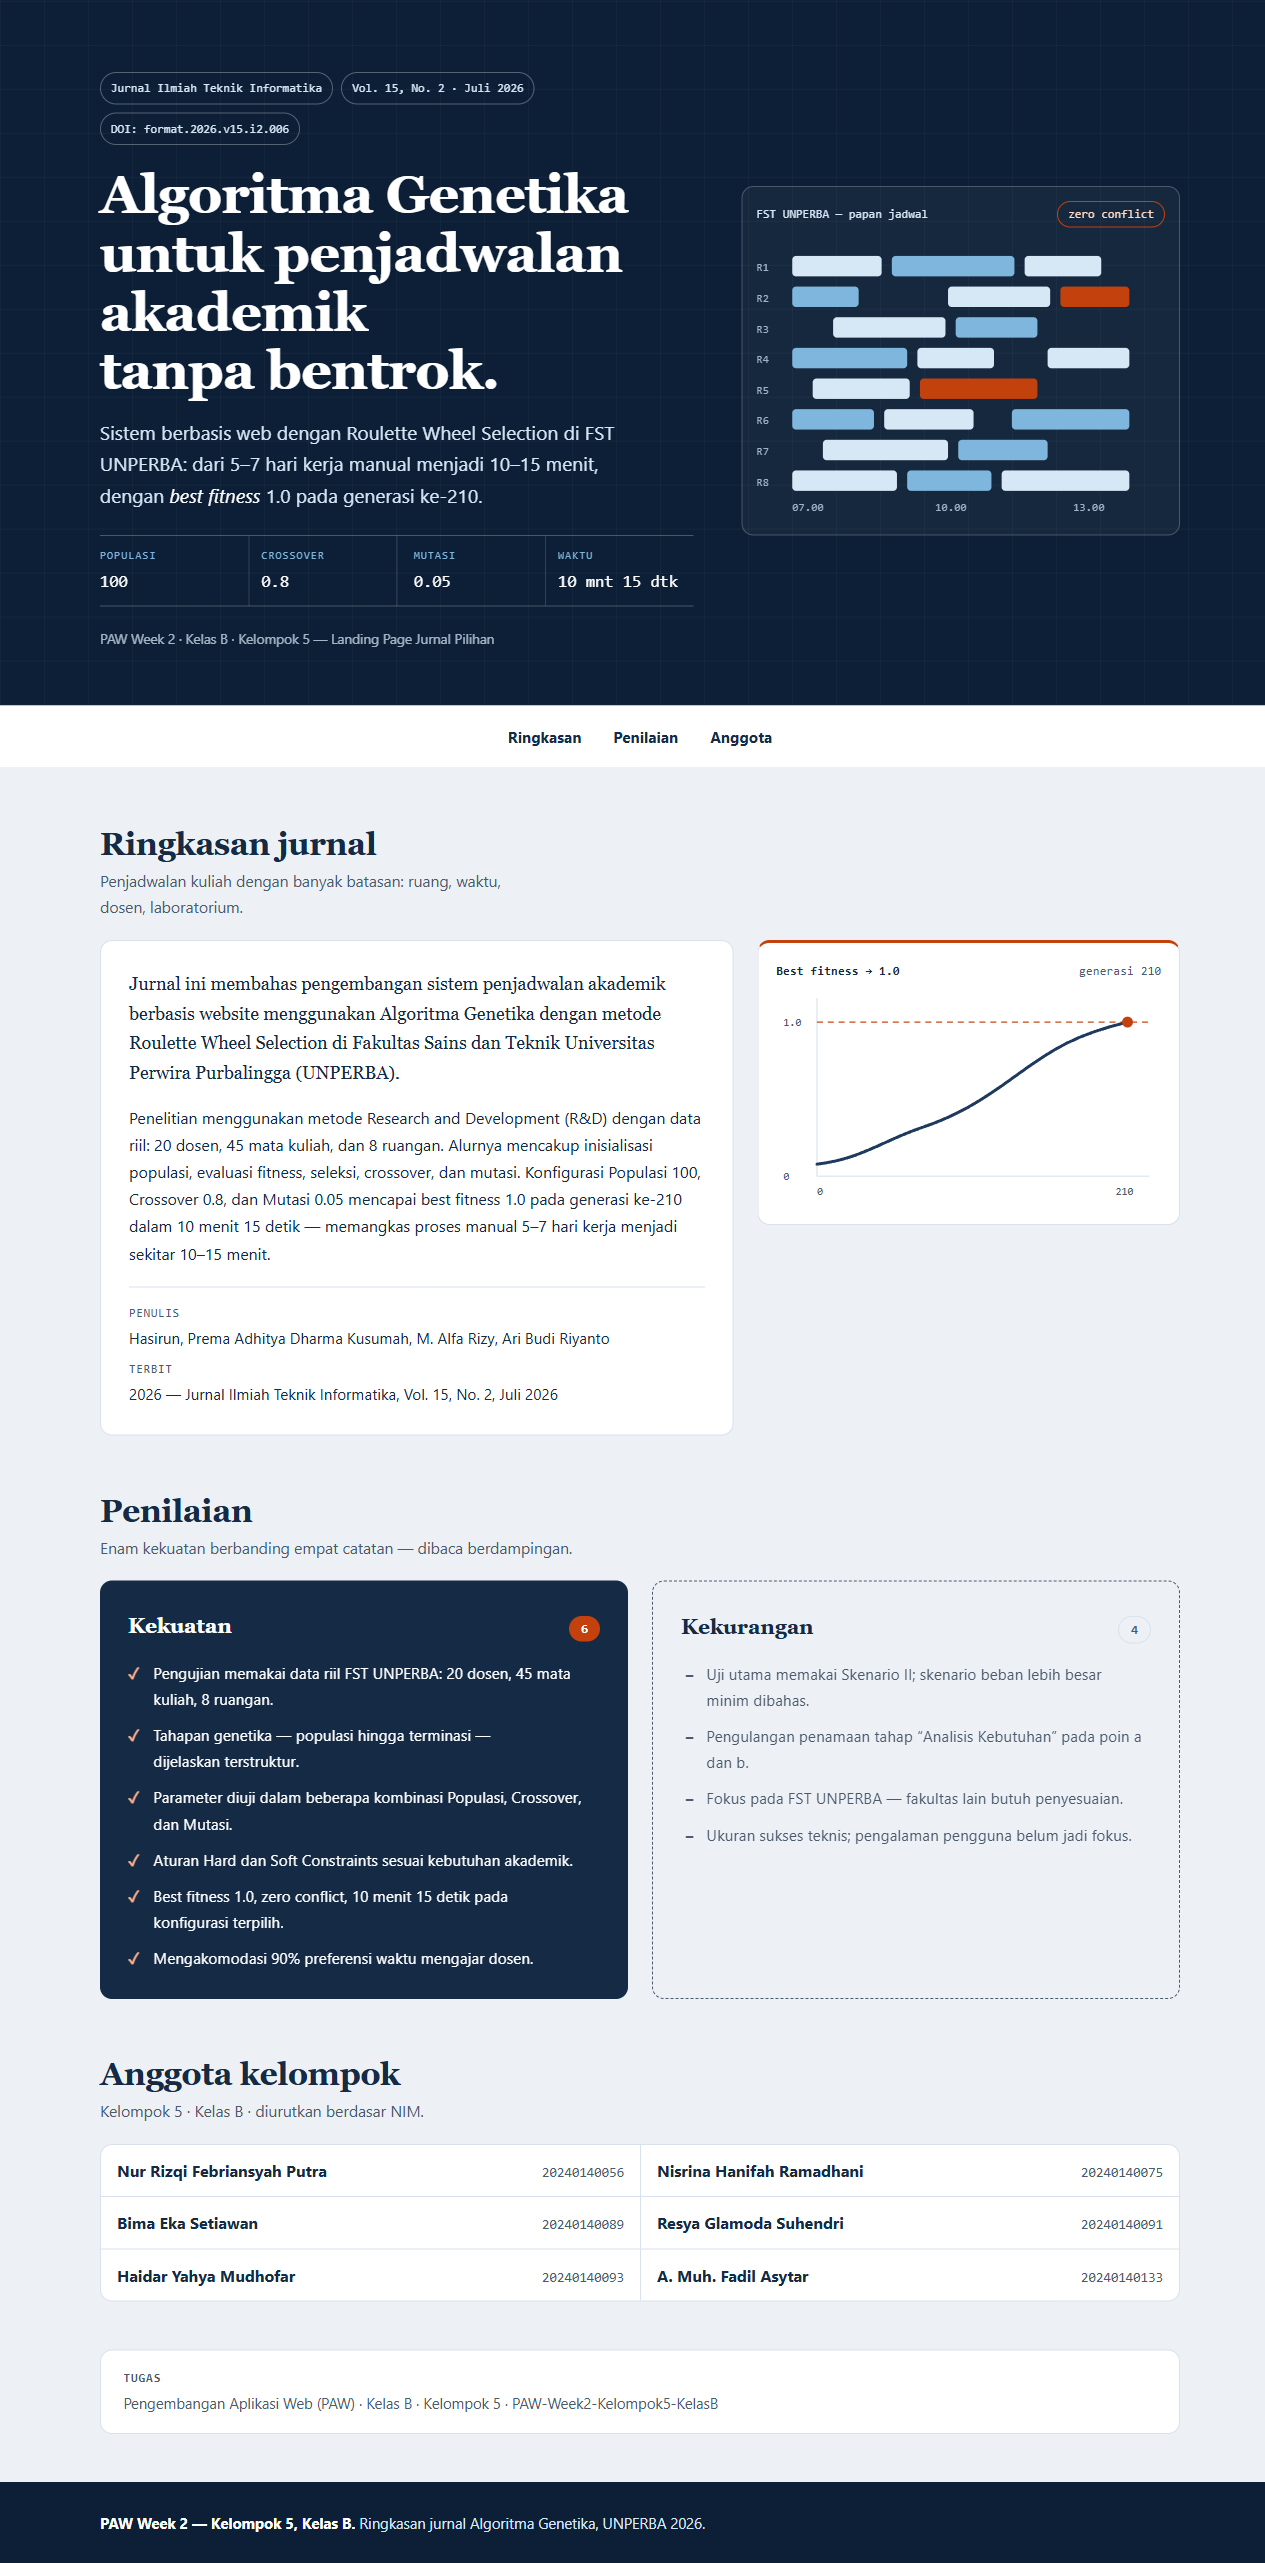
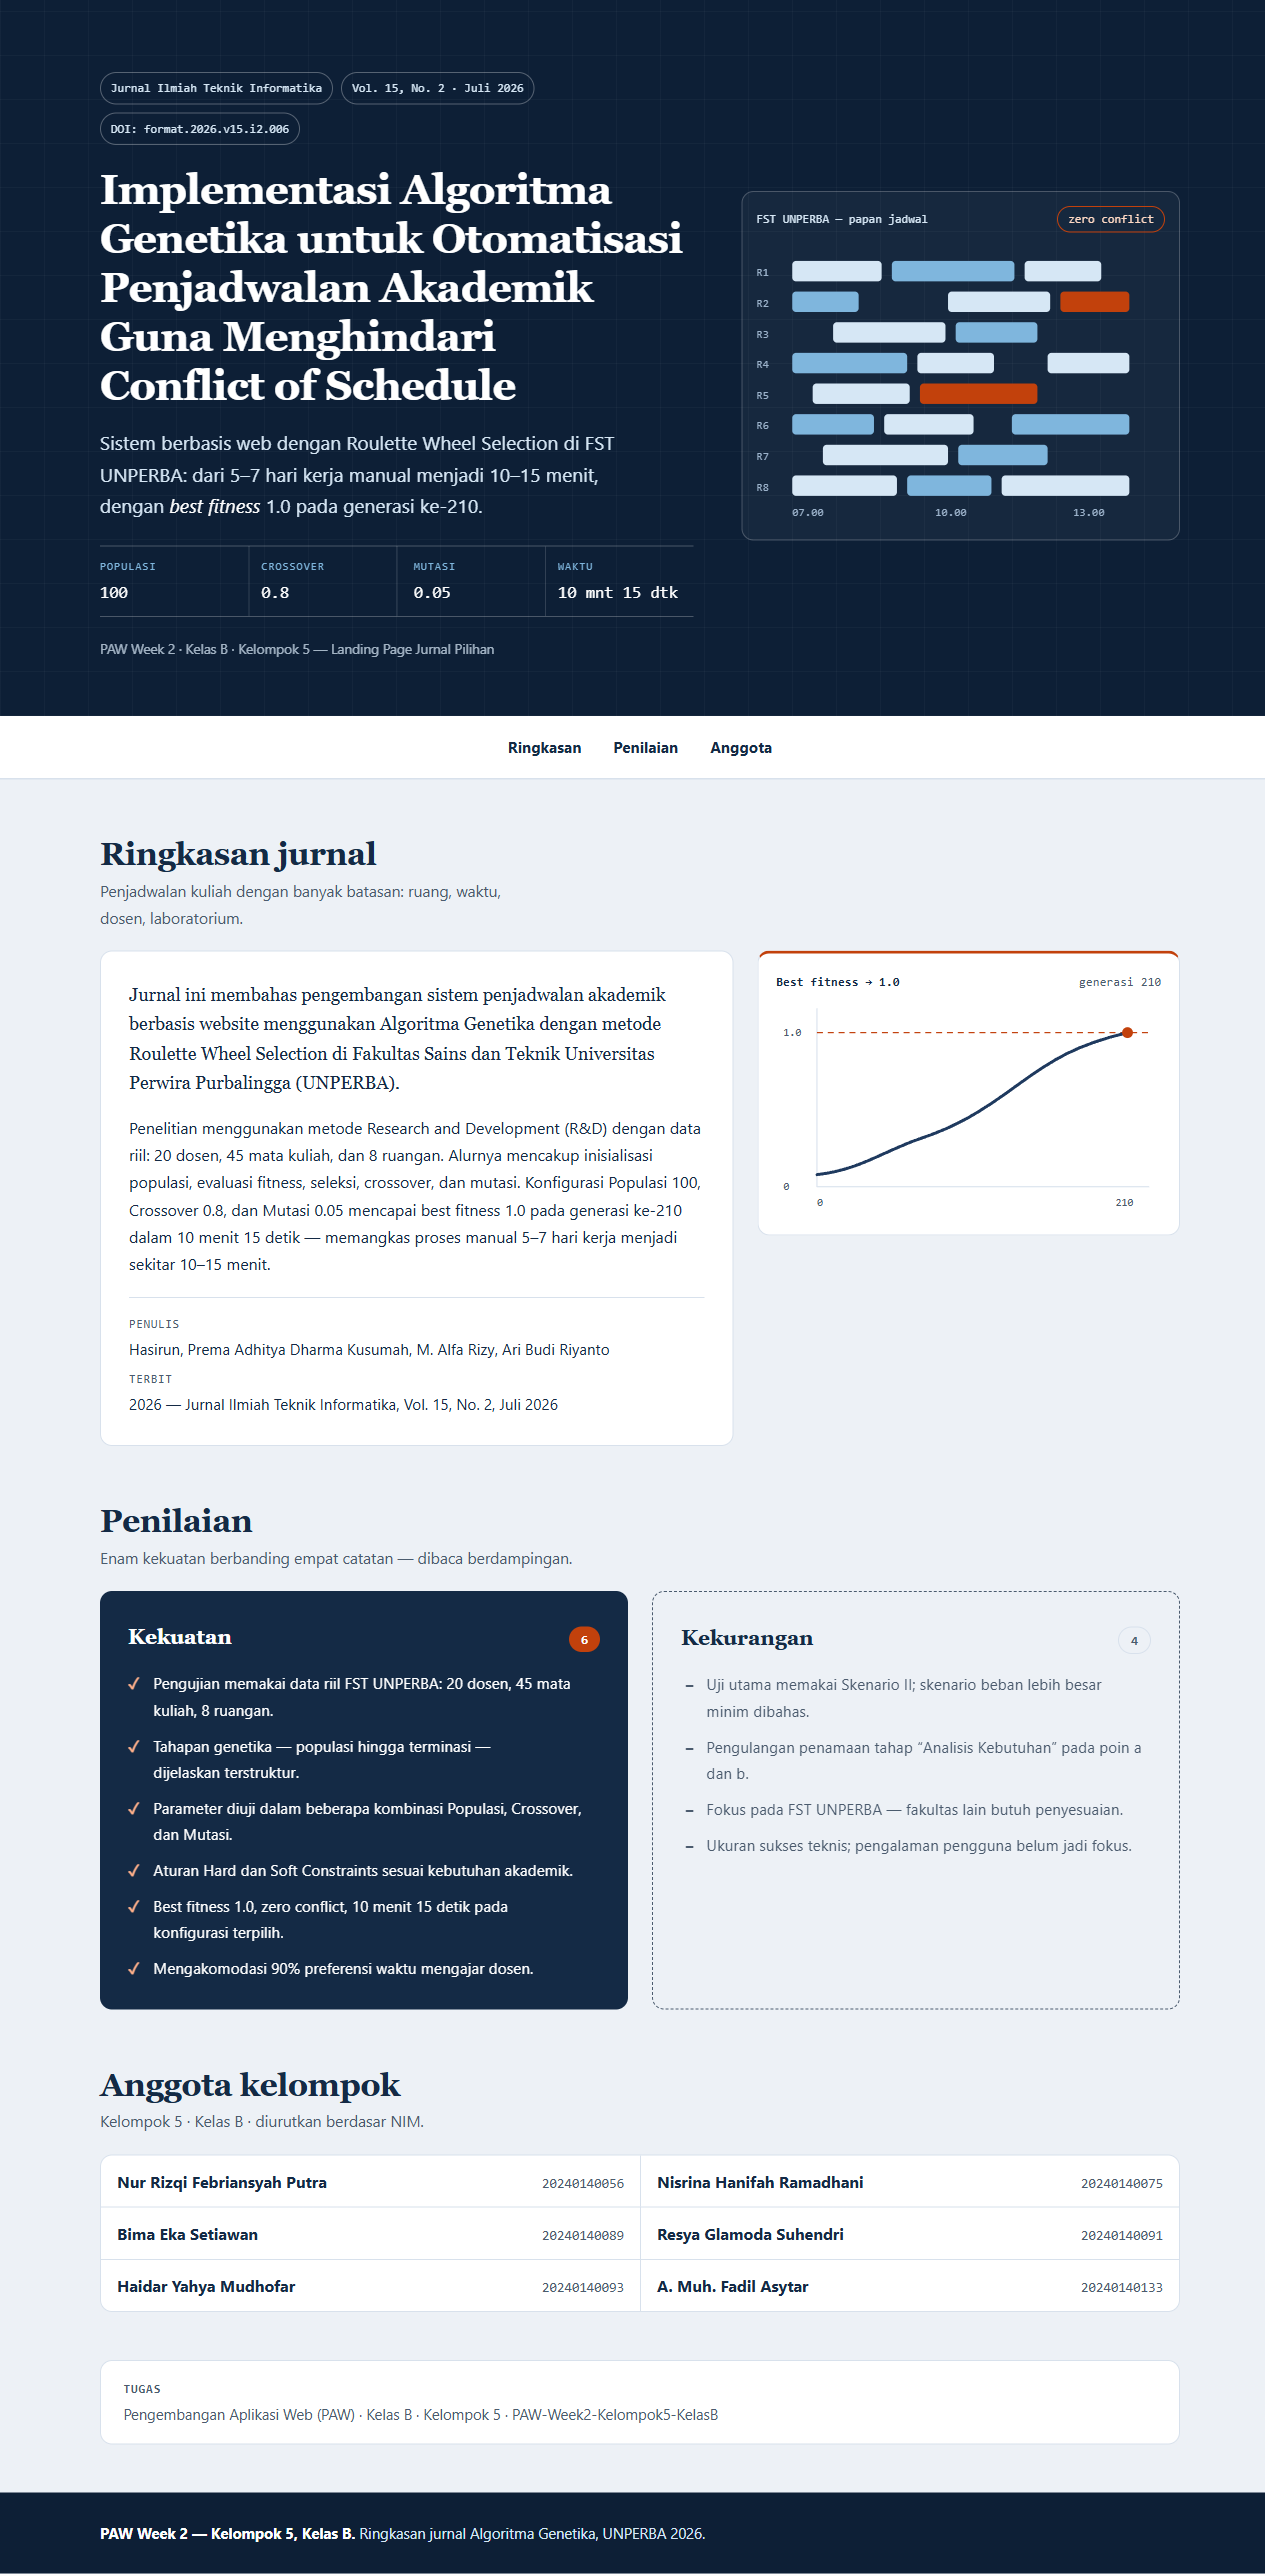
feat: kembalikan judul lengkap dan sesuaikan checklist praktikum
- H1 memakai judul lengkap jurnal untuk kesetiaan konten
- Ukuran hero disesuaikan agar judul panjang tetap muat di 390px
- Screenshot desktop+mobile diperbarui

diff --git a/index.html b/index.html
@@ -20,7 +20,7 @@
                     <li>Vol. 15, No. 2 &middot; Juli 2026</li>
                     <li>DOI: format.2026.v15.i2.006</li>
                 </ul>
-                <h1>Algoritma Genetika untuk penjadwalan akademik tanpa bentrok.</h1>
+                <h1>Implementasi Algoritma Genetika untuk Otomatisasi Penjadwalan Akademik Guna Menghindari Conflict of Schedule</h1>
                 <p class="lede">
                     Sistem berbasis web dengan Roulette Wheel Selection di FST UNPERBA:
                     dari 5&ndash;7 hari kerja manual menjadi 10&ndash;15 menit, dengan

diff --git a/style.css b/style.css
@@ -105,10 +105,10 @@ p, li, dd, figcaption {
 
 .hero h1 {
     margin: 0 0 1rem;
-    max-width: 16ch;
-    font-size: clamp(2rem, 4vw + 1.4rem, 3.4rem);
-    line-height: 1.08;
-    letter-spacing: -0.02em;
+    max-width: 26ch;
+    font-size: clamp(1.55rem, 2.6vw + 1.1rem, 2.6rem);
+    line-height: 1.18;
+    letter-spacing: -0.015em;
     color: #fff;
 }
 
